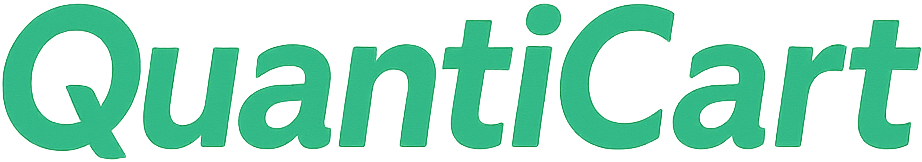
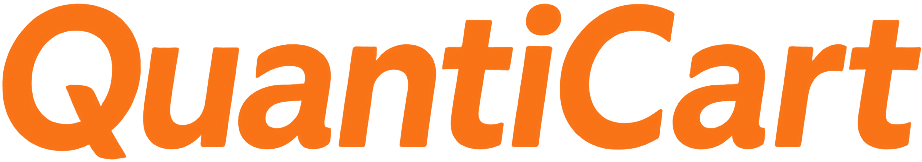
orange styling and active tree node

diff --git a/src/components/SidebarContent.vue b/src/components/SidebarContent.vue
@@ -216,37 +216,66 @@ const nodes = computed(() =>
   store.folders.map((folder) => ({
     key: String(folder.id),
     label: folder.name,
+    selectable: false, // PREVENTS FOLDERS FROM BEING VISUALLY SELECTED
     children: folder.files.map((file) => ({
       key: `${folder.id}__${file.id}`,
       label: file.name,
       leaf: true,
+      selectable: true, // Files are selectable (this is often default for leaf nodes if Tree is selectable)
     })),
   })),
-)
+);
 
 const selectionKeys = computed({
   get() {
-    if (!store.selectedFile) return null
-    const { folderId, fileId } = store.selectedFile
-    return `${folderId}__${fileId}`
+    if (!store.selectedFile) {
+      return {}; // Return an empty object for no selection, consistently with PrimeVue
+    }
+    const { folderId, fileId } = store.selectedFile;
+    const key = `${folderId}__${fileId}`;
+    return { [key]: true }; // CORRECTED: Return object like { 'nodeKeyValue': true }
   },
   set(val) {
-    let key
-    if (val == null) {
-      key = null
-    } else if (typeof val === 'object') {
-      const keys = Object.keys(val)
-      if (!keys.length) return
-      key = keys[0]
-    } else {
-      key = String(val)
+    // val is an object from PrimeVue Tree, e.g., { 'actualNodeKeyClicked': true } or {} on deselect
+    let newSelectedNodeKey = null;
+
+    if (val && typeof val === 'object' && Object.keys(val).length > 0) {
+      newSelectedNodeKey = Object.keys(val)[0];
     }
-    if (!key || !key.includes('__')) return
-    const [folderId, fileId] = key.split('__').map(Number)
-    store.selectFile(folderId, fileId)
-    emit('file-selected', fileId)
+
+    if (newSelectedNodeKey && newSelectedNodeKey.includes('__')) { // A file node key
+      const [folderIdStr, fileIdStr] = newSelectedNodeKey.split('__');
+      const folderId = Number(folderIdStr);
+      const fileId = Number(fileIdStr);
+
+      // Update store only if selection actually changed to a new file
+      if (!store.selectedFile || store.selectedFile.folderId !== folderId || store.selectedFile.fileId !== fileId) {
+        store.selectFile(folderId, fileId);
+        emit('file-selected', fileId);
+      }
+    } else if (newSelectedNodeKey && !newSelectedNodeKey.includes('__')) {
+        // A folder was clicked.
+        // Current app logic seems to only want to "select" files in the store.
+        // If a folder is clicked, we might want to clear the file selection.
+        // Or, if you want folders to be visually selectable but not affect `store.selectedFile`,
+        // this logic would need to be more complex. For now, let's assume clicking a folder
+        // means "no file is selected."
+        // To ensure the tree updates and doesn't retain the folder selection if it's not
+        // reflected in `store.selectedFile`, we can reset the selection in the store.
+        if (store.selectedFile) { // If a file was selected
+            store.resetSelection(); // This will make the getter return {}
+                                    // and effectively deselect in the tree.
+        }
+        // If you want folders to appear selected without affecting store.selectedFile,
+        // then the 'nodes' definition should make folders "selectable: false" (see below).
+    } else {
+      // Selection was cleared (val is likely {} or null)
+      if (store.selectedFile) {
+        store.resetSelection(); // Ensure store reflects no selection
+      }
+    }
   },
-})
+});
 
 /* dialog helpers … unchanged (add / rename / delete) */
 /* … */
@@ -482,4 +511,12 @@ function openDeleteFileDialog(compositeKey) {
   transform: none;
   background: var(--surface-b);
 }
+
+
+
+.folder-tree :deep(.p-tree-node-content[data-p-selected="true"]) {
+  background-color: var(orange-500) !important;
+}
+
+ 
 </style>

diff --git a/src/main.js b/src/main.js
@@ -1,6 +1,6 @@
 import '@/assets/main.css'
 import 'primeicons/primeicons.css'
- 
+ import { definePreset } from '@primeuix/themes';
 import '@/assets/primeflex‑custom.scss'  
 import { createApp } from 'vue'
 import { createPinia } from 'pinia'
@@ -16,7 +16,23 @@ import piniaPersist from 'pinia-plugin-persistedstate'
 import App from './App.vue'
 import router from './router'
 
-
+const MyPreset = definePreset(Lara, {
+    semantic: {
+        primary: {
+            50: '{orange.50}',
+            100: '{orange.100}',
+            200: '{orange.200}',
+            300: '{orange.300}',
+            400: '{orange.400}',
+            500: '{orange.500}',
+            600: '{orange.600}',
+            700: '{orange.700}',
+            800: '{orange.800}',
+            900: '{orange.900}',
+            950: '{orange.950}'
+        }
+    }
+});
 
 // ECHARTS STUFF BELOW 
 
@@ -52,10 +68,11 @@ pinia.use(piniaPersist)
 app.use(pinia)
 app.use(router)
 app.use(PrimeVue, {
-  theme: {
-    preset: Lara,
-  },
-})
+    theme: {
+        preset: MyPreset
+    }
+ });
+ 
 app.use(ConfirmationService); // Register service
 app.directive('tooltip', Tooltip); // Register directive
 

diff --git a/src/components/dash/SpreadChart.vue b/src/components/dash/SpreadChart.vue
@@ -176,7 +176,7 @@ const option = computed(() => ({
       data: otherItems.value,
       symbolSize: 40,
       itemStyle: {
-        color: 'rgba(65, 134, 111, 0.15)',
+        color: 'rgba(177, 128, 93, 0.15)',
         borderWidth: 0,
       },
       symbol: 'circle',
@@ -188,10 +188,10 @@ const option = computed(() => ({
       data: minItems.value,
       symbolSize: 42,
       itemStyle: {
-        color: 'rgba(16, 185, 129, 0.3)',
+        color: 'rgba(249, 115, 22, 0.3)',
         borderWidth: 3,
         borderType: 'dotted',
-        borderColor: '#10b981',
+        borderColor: 'RGB(249, 115, 22)',
       },
     },
   ],

diff --git a/src/components/SearchTermCard.vue b/src/components/SearchTermCard.vue
@@ -95,7 +95,7 @@
               :href="term.link"
               target="_blank"
               rel="noopener noreferrer"
-              class="text-sm xxl:text-base font-medium hover:underline"
+              class="text-sm xxl:text-base font-medium hover:underline  text-orange-500"
             >
               View item <i class="pi pi-external-link ml-1" style="font-size: 1rem" />
             </a>

diff --git a/src/views/DataView.vue b/src/views/DataView.vue
@@ -91,7 +91,7 @@ function askDelete(row) {
               :href="data.url"
               target="_blank"
               rel="noopener noreferrer"
-              class="text-green-600 hover:underline break-all font-bold"
+              class="text-orange-600 hover:underline break-all font-bold"
             >
               {{ data.source }}
             </a>

diff --git a/src/views/DashboardView.vue b/src/views/DashboardView.vue
@@ -153,7 +153,7 @@ const colorPalette = [
   '#9A60B4',
   '#EA7CCC',
 ]
-const primaryColor = 'rgb(16, 185, 129)'
+const primaryColor = 'rgb(249, 115, 22)'
 
 // Shared tooltip styling
 const sharedTooltipConfig = {

diff --git a/src/assets/base.css b/src/assets/base.css
@@ -84,3 +84,4 @@ body {
   -webkit-font-smoothing: antialiased;
   -moz-osx-font-smoothing: grayscale;
 }
+
